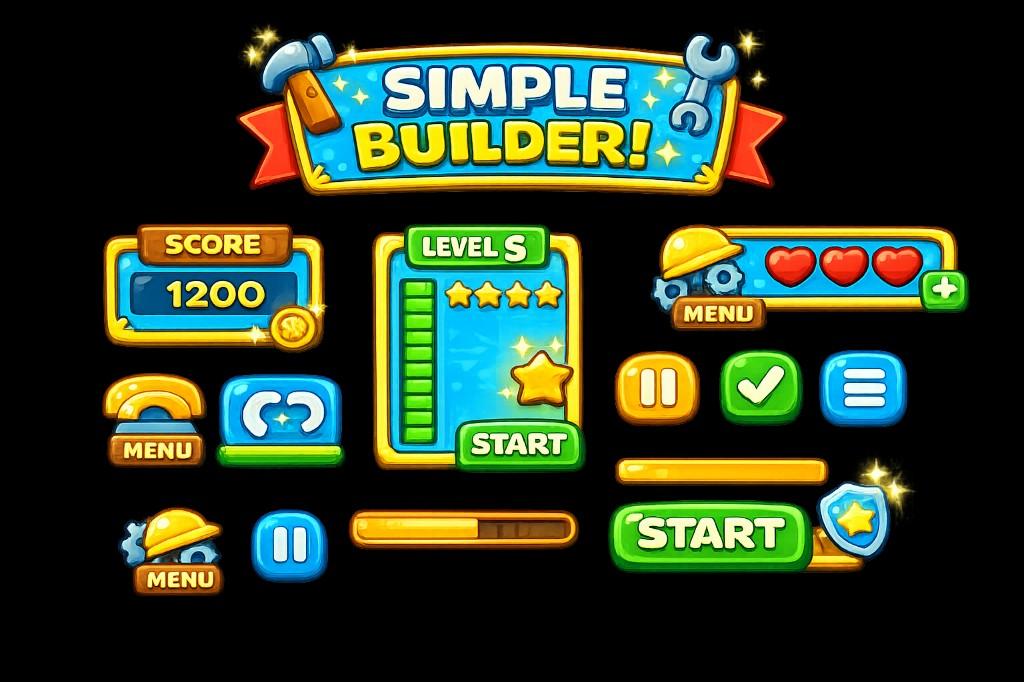
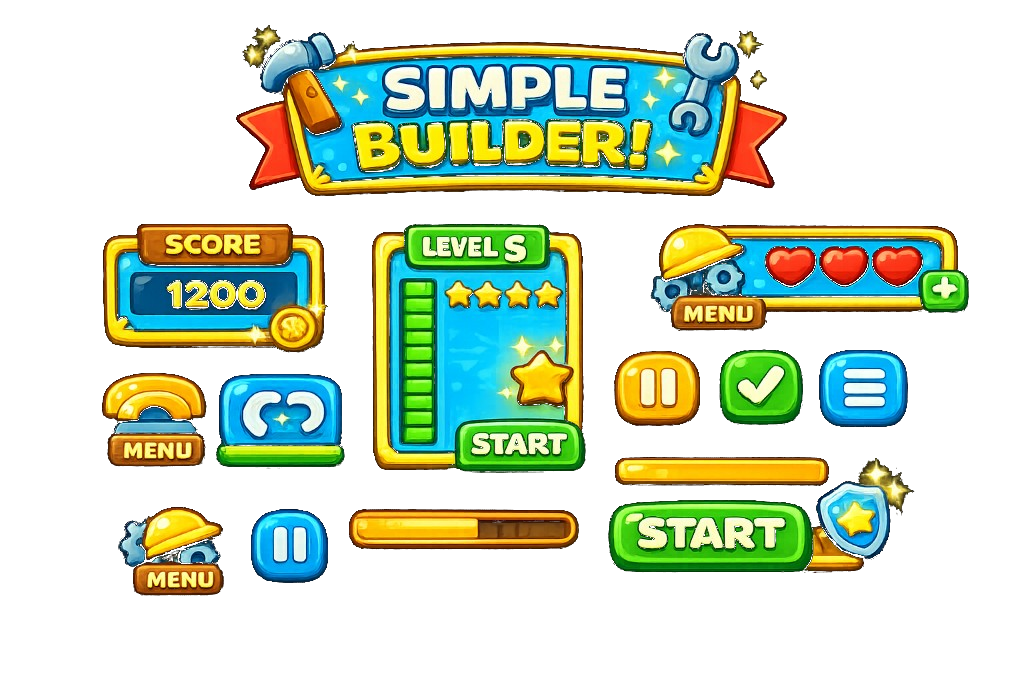
Fix sprite black backgrounds permanently and fix block connection detection
Made-with: Cursor

diff --git a/Kids-Games/builderGame/game.js b/Kids-Games/builderGame/game.js
@@ -76,21 +76,26 @@ const PU_DEFS = [
 
 const ASSETS = { bg: null, blocks: null, hud: null, ready: false };
 
-// Sprite sheets have a solid black background; this converts near-black
-// pixels to transparent so sprites render cleanly over any backdrop.
-// Falls back to the raw image if canvas security blocks getImageData.
+// PNGs are pre-processed at build time with transparent backgrounds.
+// This runtime fallback catches any residual dark fringe pixels and also
+// handles the case where pre-processing was skipped (e.g. fresh assets).
+// Returns a canvas with near-black pixels made transparent, or the raw
+// image if getImageData is blocked by CORS (file:// protocol).
 function removeBlackBG(img) {
   try {
     var c = document.createElement('canvas');
-    c.width  = img.width;
-    c.height = img.height;
+    c.width  = img.naturalWidth  || img.width;
+    c.height = img.naturalHeight || img.height;
     var cx = c.getContext('2d');
     cx.drawImage(img, 0, 0);
     var data = cx.getImageData(0, 0, c.width, c.height);
     var px = data.data;
     for (var i = 0; i < px.length; i += 4) {
-      if (px[i] < 18 && px[i + 1] < 18 && px[i + 2] < 18) {
+      var maxC = Math.max(px[i], px[i + 1], px[i + 2]);
+      if (maxC < 35) {
         px[i + 3] = 0;
+      } else if (maxC < 55) {
+        px[i + 3] = Math.round((maxC - 35) / 20 * px[i + 3]);
       }
     }
     cx.putImageData(data, 0, 0);
@@ -479,7 +484,6 @@ function getPiecePixH(p) {
 //  - toCanvasY / toWorldY convert between world and canvas pixels.
 
 const CONTACT_TOL     = 10;   // px gap allowed for "touching"
-const MIN_SUPPORT     = 0.10; // min overlap fraction for support
 const COM_TOLERANCE   = { easy: 0.90, normal: 0.70, hard: 0.50 };
 
 function toCanvasY(worldY) {
@@ -504,21 +508,21 @@ function overlapLen(aL, aR, bL, bR) {
 //  - Side: edges meet with vertical overlap
 
 function areTouching(a, b) {
-  const aL = pLeft(a),  aR = pRight(a);
-  const bL = pLeft(b),  bR = pRight(b);
-  const aB = pBot(a),   aT = pTop(a);
-  const bB = pBot(b),   bT = pTop(b);
+  var aL = pLeft(a),  aR = pRight(a);
+  var bL = pLeft(b),  bR = pRight(b);
+  var aB = pBot(a),   aT = pTop(a);
+  var bB = pBot(b),   bT = pTop(b);
 
-  const hOv = overlapLen(aL, aR, bL, bR);
-  const vOv = overlapLen(aB, aT, bB, bT);
-  const minW = Math.min(aR - aL, bR - bL);
-  const minH = Math.min(aT - aB, bT - bB);
+  var hOv = overlapLen(aL, aR, bL, bR);
+  var vOv = overlapLen(aB, aT, bB, bT);
 
-  if (hOv > minW * MIN_SUPPORT) {
+  // Vertical contact: one sits on the other (top≈bottom) with >3px horizontal overlap
+  if (hOv > 3) {
     if (Math.abs(aT - bB) < CONTACT_TOL) return true;
     if (Math.abs(bT - aB) < CONTACT_TOL) return true;
   }
-  if (vOv > Math.max(minH * MIN_SUPPORT, 4)) {
+  // Side contact: edges meet with >3px vertical overlap
+  if (vOv > 3) {
     if (Math.abs(aR - bL) < CONTACT_TOL) return true;
     if (Math.abs(bR - aL) < CONTACT_TOL) return true;
   }
@@ -530,9 +534,8 @@ function isOnGround(p) {
 }
 
 function isSittingOn(upper, lower) {
-  const hOv = overlapLen(pLeft(upper), pRight(upper), pLeft(lower), pRight(lower));
-  const minW = Math.min(getPiecePixW(upper), getPiecePixW(lower));
-  if (hOv < minW * MIN_SUPPORT) return false;
+  var hOv = overlapLen(pLeft(upper), pRight(upper), pLeft(lower), pRight(lower));
+  if (hOv < 3) return false;
   return Math.abs(pBot(upper) - pTop(lower)) < CONTACT_TOL;
 }
 
@@ -670,7 +673,7 @@ function getTopSurfaceWorldAt(px, pw) {
     var pl = GS.placedPieces[i];
     if (!pl.onGround) continue;
     var ov = overlapLen(px - pw / 2, px + pw / 2, pLeft(pl), pRight(pl));
-    if (ov >= pw * MIN_SUPPORT) {
+    if (ov > 3) {
       var t = pTop(pl);
       if (t > topWY) topWY = t;
     }
@@ -698,14 +701,14 @@ function wouldConnectToTower(px, pw, surfaceWorldY) {
     var qL = pLeft(q), qR = pRight(q), qB = pBot(q), qT = pTop(q);
     var hOv = overlapLen(newL, newR, qL, qR);
     var vOv = overlapLen(newBot, newTop, qB, qT);
-    var minW = Math.min(newR - newL, qR - qL);
-    var minH = Math.min(newTop - newBot, qT - qB);
 
-    if (hOv > minW * MIN_SUPPORT) {
+    // Vertical contact (sitting on or under): any horizontal overlap > 3px
+    if (hOv > 3) {
       if (Math.abs(newBot - qT) < CONTACT_TOL) return true;
       if (Math.abs(qB - newTop) < CONTACT_TOL) return true;
     }
-    if (vOv > Math.max(minH * MIN_SUPPORT, 4)) {
+    // Side contact: any vertical overlap > 3px
+    if (vOv > 3) {
       if (Math.abs(newR - qL) < CONTACT_TOL) return true;
       if (Math.abs(qR - newL) < CONTACT_TOL) return true;
     }
@@ -1454,10 +1457,12 @@ function checkGoal() {
         setTimeout(function(){ showLevelWin(); }, 400);
       }
     } else if (lvl.type === 'toptype') {
-      // Top piece must match topType
       if (GS.placedPieces.length > 0) {
-        const topPiece = GS.placedPieces.reduce(function(a, b){ return (a.y < b.y) ? a : b; });
-        if (topPiece.id === lvl.topType && GS.placedPieces.length >= 3) {
+        var onGndPcs = GS.placedPieces.filter(function(p) { return p.onGround; });
+        var topPiece = onGndPcs.length > 0
+          ? onGndPcs.reduce(function(a, b){ return a.worldY > b.worldY ? a : b; })
+          : null;
+        if (topPiece && topPiece.id === lvl.topType && onGndPcs.length >= 3) {
           GS.challengeDone = true;
           setTimeout(function(){ showLevelWin(); }, 400);
         }
@@ -1473,9 +1478,11 @@ function checkGoal() {
         setTimeout(function(){ showLevelWin(); }, 400);
       }
     } else if (lvl.type === 'starontop') {
-      const hasStarOnTop = GS.placedPieces.some(function(p){
-        return p.special === 'star' && GS.towerHeight >= lvl.target;
-      });
+      var onGndTop = GS.placedPieces.filter(function(p) { return p.onGround; });
+      var topP = onGndTop.length > 0
+        ? onGndTop.reduce(function(a, b) { return a.worldY > b.worldY ? a : b; })
+        : null;
+      var hasStarOnTop = topP && topP.special === 'star' && GS.towerHeight >= lvl.target;
       if (hasStarOnTop) {
         GS.challengeDone = true;
         setTimeout(function(){ showLevelWin(); }, 400);
